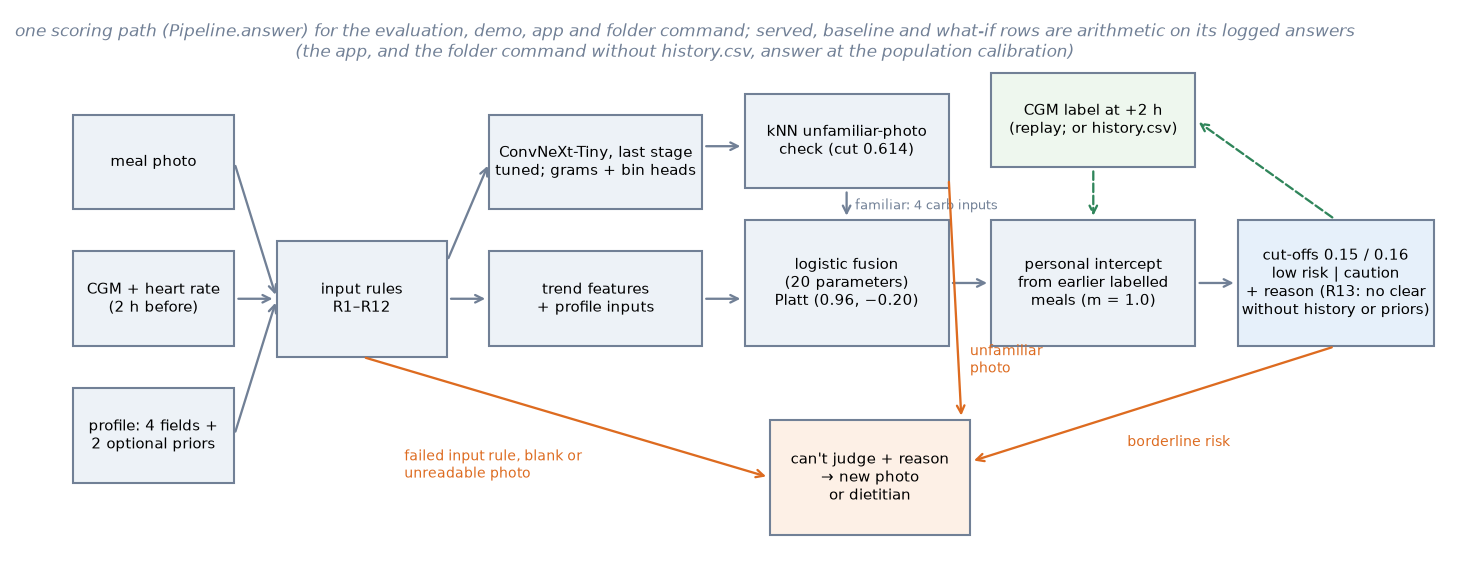
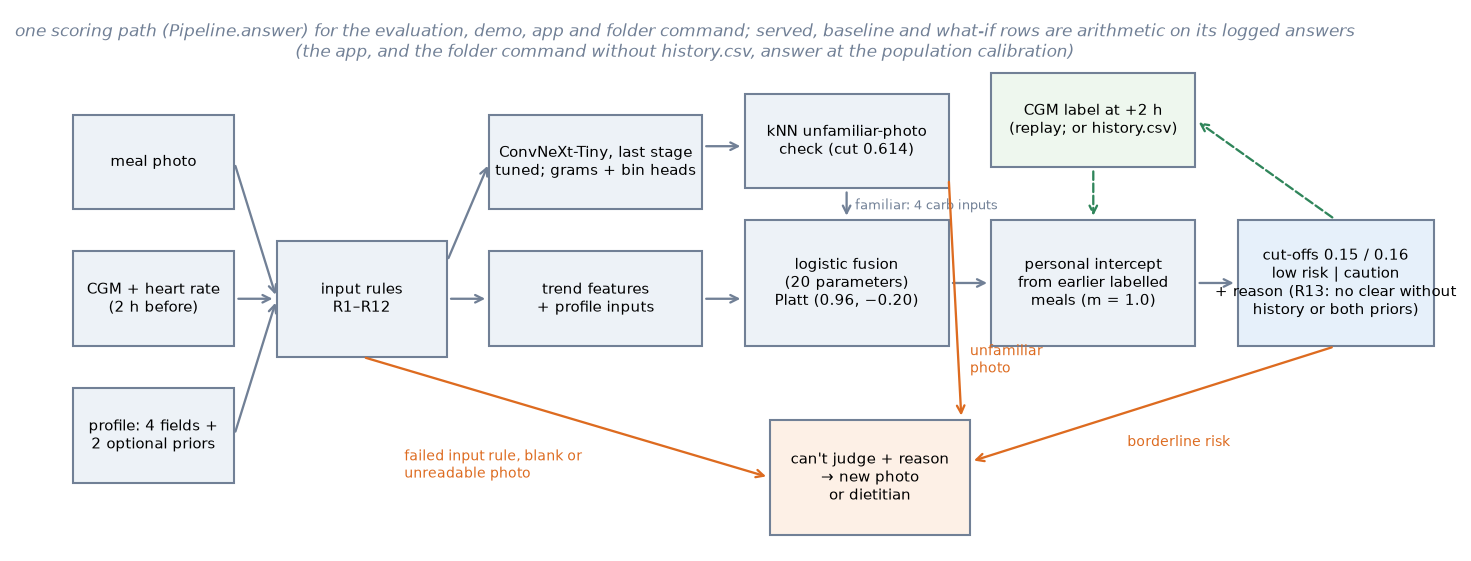
Close of the overnight round: R13 wording, CGM contrast exploratory, figure labels
Claude-Session: https://claude.ai/code/session_01U1MwL7j11MLBZ4KUvxGUHV

diff --git a/src/glimpse/figures.py b/src/glimpse/figures.py
@@ -50,7 +50,7 @@ def f1_system(plt) -> None:
         1.7,
         2.3,
         1.2,
-        "cut-offs 0.15 / 0.16\nlow risk | caution\n+ reason (R13: no clear\nwithout history or priors)",
+        "cut-offs 0.15 / 0.16\nlow risk | caution\n+ reason (R13: no clear without\nhistory or both priors)",
         fc="#e6f0fa",
     )
     box(8.2, -0.1, 2.35, 1.1, "can't judge + reason\n\u2192 new photo\nor dietitian", fc="#fdf0e6")
@@ -176,7 +176,7 @@ def f4_effects(plt, fu: dict, ch: dict, d8: dict) -> None:
         ("photo minus true carbs (non-inferiority)", fu["rq1_photo_vs_logged"]["point"],
          fu["rq1_photo_vs_logged"]["ci95"], GREY),
         ("D8 photo gain, exact-macro meals removed", d8["gain_photo_meals_only"]["point"],
-         d8["gain_photo_meals_only"]["ci95"], ORANGE),
+         d8["gain_photo_meals_only"]["ci95"], GREY),
         ("D8 control: photo gain, random drop", d8["control_random_drop_gain"]["point"],
          d8["control_random_drop_gain"]["ci95"], GREY),
         ("change when heart rate is dropped", ch["delta_vs_full"]["no_heart_rate"]["point"],
@@ -329,7 +329,7 @@ def f6_shap(plt, da: pd.DataFrame) -> dict:
     axes[1].set_yticks(np.arange(len(top))[::-1], [shown[j] for j in top], fontsize=6.8)
     axes[1].axvline(0, color=GREY, lw=0.8)
     axes[1].set_xlabel("SHAP contribution (logit units)")
-    axes[1].set_title(f"False clear (row 847): base {base_logit:+.2f} + terms = logit {logit_i:+.2f} (risk "
+    axes[1].set_title(f"False clear (row 847, raw fusion): base {base_logit:+.2f} + terms = logit {logit_i:+.2f} (risk "
                       f"{1 / (1 + np.exp(-logit_i)):.2f}); top 8 of 19 terms", fontsize=8.5)  # fmt: skip
     fig.tight_layout()
     fig.savefig(OUT / "f6_shap.png")

diff --git a/docs/final_report.md b/docs/final_report.md
@@ -131,7 +131,7 @@ MAE and Spearman, where patients' own counts err by about 15–20% (Brazeau et a
 (imputed at serving, +0.003); it stays only because the feature set was fixed before the ablation. The
 backbone is 80% of the photo path's time; the gate's no-photo arm, given the same intercept, scores 0.741
 (shipped minus it +0.021, −0.003 to +0.053) in 0.35 ms of model time, the product a next version should ship. The profile carries the system
-(dropping it costs 0.122, Figure 4); the CGM adds an established +0.033 (§3).
+(dropping it costs 0.122, Figure 4); the CGM block, with heart rate, adds +0.033 (exploratory, §3).
 
 ## 3. Evaluation and ablations
 The 45 CGMacros participants are healthy, prediabetic and T2D adults (ages 18 to 69, 64% female), each
@@ -269,7 +269,7 @@ far over its cap; at twice it, savings fall to 3.1% and missed-among-cleared ris
 
 *Served = the deployed cut-offs on the Platt-only risk, recomputed from the committed answers (dev: per-fold models; locked: frozen Platt on the frozen fusion's raw risk); nothing refitted or rescored. outputs/report_metrics/report_metrics.json (decisions, errors, served_operating_point, served_imputed_priors, share_cis), outputs/figures/figures.json (the dev miss interval), outputs/locked_eval/locked_summary.json.*
 
-In plain terms: of every 100 development meals the evaluated system (with history) clears 22.7, flags 63.6 and declines 13.7; of the
+Of every 100 development meals the evaluated system (with history) clears 22.7, flags 63.6 and declines 13.7; of the
 cleared, about 7 still spike. Only 17 people
 had cleared meals, so the miss interval's upper end exceeds the cap; the 8 misses spread across 6 people. The frozen band (0.15, 0.16) is one point wide. On the locked cohort, where
 risks ran higher, 139 of 153 meals landed above it: a dietitian would see nearly every meal flagged, and
@@ -278,7 +278,7 @@ Without history the served point (last column) fails two targets on development 
 on the locked eight. The samples also lack onboarding priors: filled with the serving medians (development,
 frozen coefficients standing in for the fold models'), AUROC drops to 0.637 and 9 of 55 cleared meals
 spike, costlier than always flagging. Rule R13 (26 Nov, after the locked run) therefore refers such meals
-instead of clearing them: no misses, 17.3% can't judge, the cost of always flagging. Abstention
+instead of clearing them: no misses, 17.3% can't judge, about the cost of always flagging (−0.3%). Abstention
 does not pay here. Deciding the 45 borderline development meals would have cost less (0.539 against 0.555
 per answered meal): they spiked at 27%, above the 20% at which abstaining beats caution at the declared
 prices, because risks just above the low cut are under-predicted. Abstaining on the meals closest to the
@@ -462,7 +462,7 @@ regulatory review, built so that a clinical study could evaluate it.
 |---|---|
 | RQ1, RQ2 | the proposal's questions: does the photo match true logged carbs (RQ1); does a from-scratch CNN beat hand-made trend features (RQ2) |
 | D1-D8 | dated design decisions in docs/final_design.md (D7: the gate's endpoints; D8: the exact-macro exclusion test) |
-| R1-R13 | rules in docs/rule_ledger.md (R13 acts on the output: no low risk without history or priors): R1-R5 and R8-R13 added after observed failures, R6 a preventive check, R7 a recorded limitation |
+| R1-R13 | rules in docs/rule_ledger.md (R13 acts on the output: no low risk with neither history nor both onboarding priors): R1-R5 and R8-R12 added after observed failures, R13 after a measured one, R6 a preventive check, R7 a recorded limitation |
 | T1-T8 | failure classes (§5) |
 | partition v2 | the final split: 23 development people in 5 outer folds, 14 T2D training-only, 8 locked |
 | cgm_auto | the CGM's own label at +2 h, the training spike rule |

diff --git a/docs/changelog.md b/docs/changelog.md
@@ -4,7 +4,7 @@ The submission was tagged `submission-v1` (48693f5) on 25 Nov after two audit ro
 cold grades that night by AI agents given the rubric (scores 92.5, 86.5 and 88.5 of 100) produced the findings below. Each
 change is listed with its reason. Nothing in this round changed a serving artifact, a threshold, a
 pre-registered verdict or a locked-set number; serving behaviour changed in wording (R11 additions), one
-refusal reason (R12) and one output rule (R13, eighth pass), none of which alters a reported decision: `checkpoints/` is byte-identical to the tag, and the locked
+refusal reason (R12) and one output rule (R13, eighth pass), none of which alters an evaluated or locked decision (R13 changes the no-history, no-prior served path, reported as such): `checkpoints/` is byte-identical to the tag, and the locked
 eight were not rescored (new locked metrics are arithmetic on the committed `locked_answers.csv`).
 
 ## 26 Nov 2026
@@ -173,3 +173,13 @@ author's standing instruction, not approved one by one.
 | Figure 7 gains a cost panel from `coverage_risk`: on development any abstention raises cost; on the locked eight abstaining the nearest 10% would have lowered it (0.543 against 0.593), descriptive | the coverage curve was not tied to the cost model (2 of 3) | outputs/figures/f7_coverage.png |
 | Figure 6's local panel shows row 847, a confident false clear, instead of the meal nearest risk 0.5 | the old example said nothing about the 0.15 cut (1 of 3) | outputs/figures/f6_shap.png |
 | Figure 4 adds the intercept's paired gain and the CGM contrast (green) and states the removal sign convention | the central effect and the CGM contribution were missing from the effects figure (2 of 3) | outputs/figures/f4_effects.png |
+
+## 26 Nov 2026, close of the round (after strict grades 75.0, 79.0, 77.0 and a holistic grade of 85)
+
+Last fixes: the CGM contrast labelled exploratory (the no-photo arm keeps heart rate); R13 described the same
+way everywhere (no low risk with neither history nor both onboarding priors); R13's cost stated as -0.3%;
+Figure 4's D8 row drawn as a control; Figure 6's local risk labelled raw fusion; this header no longer
+claims R13 changes no decision. Still open and needing the author's Mac (weights and data): rerun the
+folder, stress and demo suites under the current code and commit them with a fresh-clone terminal log;
+int8 decision agreement; an image-level probe of the ConvNeXt; author sign-off on the overnight
+registrations and on R13.
